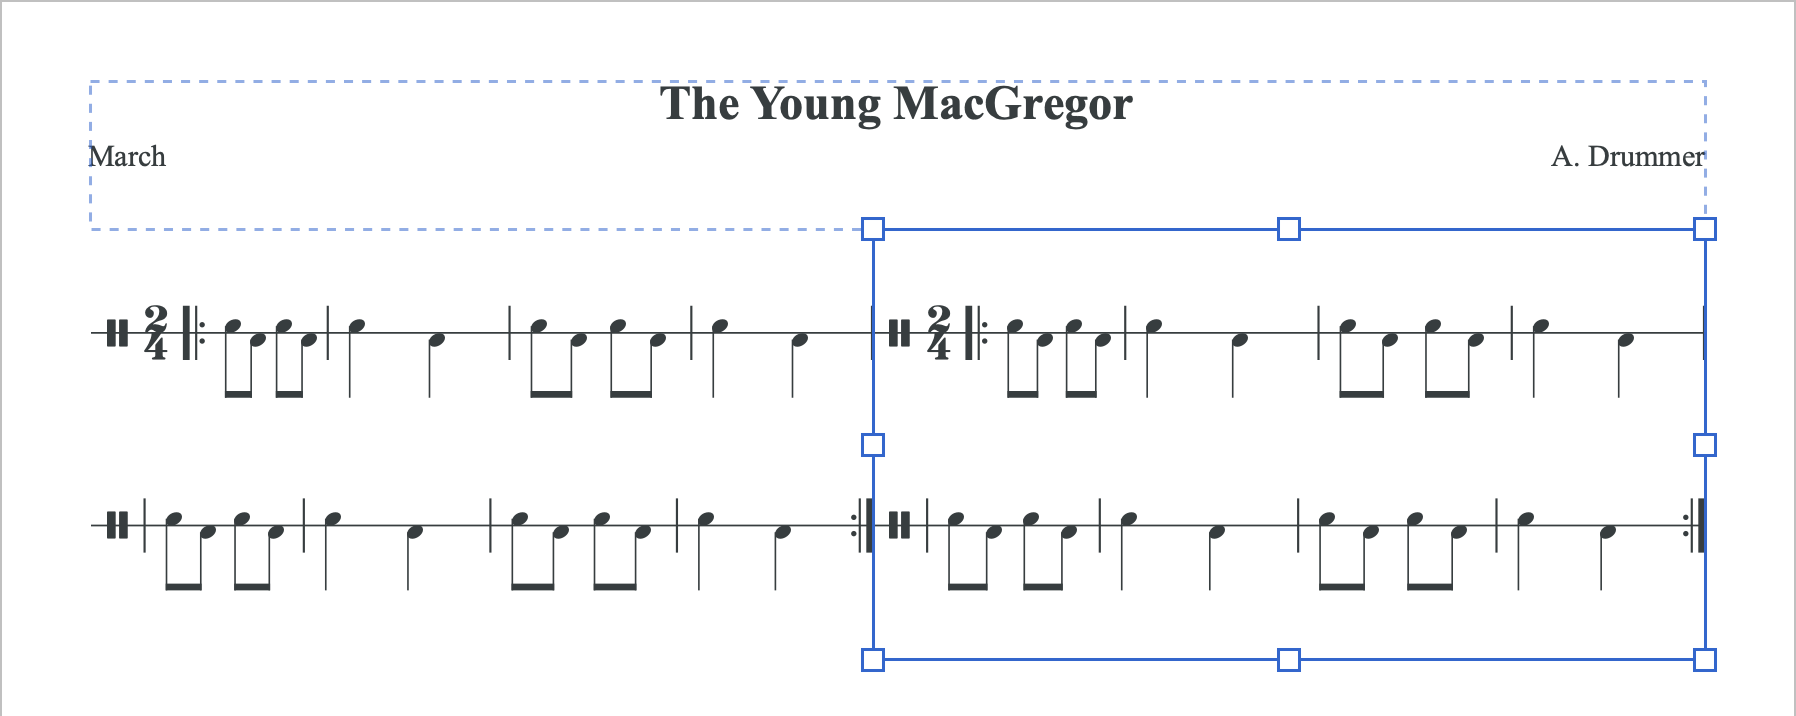
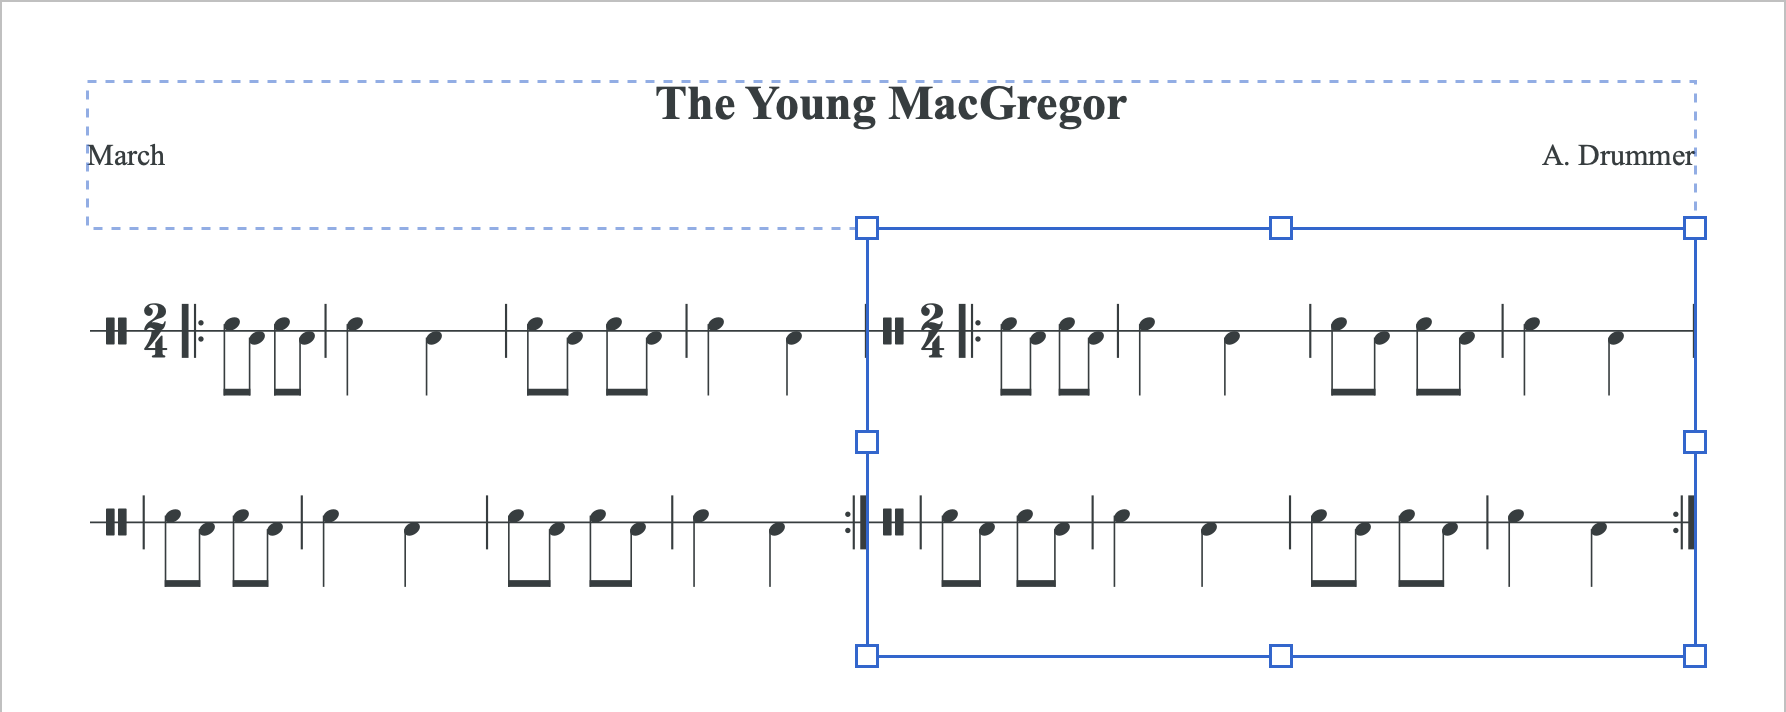
Repaint the two header-outline pictures (editor #849)
The header's dashed outline now goes round its captions. Both pictures are
ten pixels narrower as painted today, so their stated widths follow.

Claude-Session: https://claude.ai/code/session_01C1Ge6EDzSan1bZiKA9Avaa

diff --git a/en/v4/layout.md b/en/v4/layout.md
@@ -161,7 +161,7 @@ On an arranged page you place the music areas yourself.
 
 You can tick `Page Arranged By Hand` only while the score has one page and one tune. To untick it, first delete the extra music areas, and move loose text and pictures into the header or footer.
 
-![A page arranged by hand with two music areas side by side, the right-hand one held and showing its handles](images/v4/arranged-page.png){: width="898" }
+![A page arranged by hand with two music areas side by side, the right-hand one held and showing its handles](images/v4/arranged-page.png){: width="893" }
 
 ## This score, or every new score
 

diff --git a/en/v4/text-and-headers.md b/en/v4/text-and-headers.md
@@ -28,7 +28,7 @@ The header and footer change to match. In the Studio Edition you can also type s
 
 The footer works the same way: double-click it. Either way in, every tune's header and the footer can all be arranged until you leave.
 
-![A tune header being arranged: the header outlined, the title selected and showing its handles](images/v4/header-being-arranged.png){: width="898" }
+![A tune header being arranged: the header outlined, the title selected and showing its handles](images/v4/header-being-arranged.png){: width="893" }
 
 ## Arranging a header or footer
 
